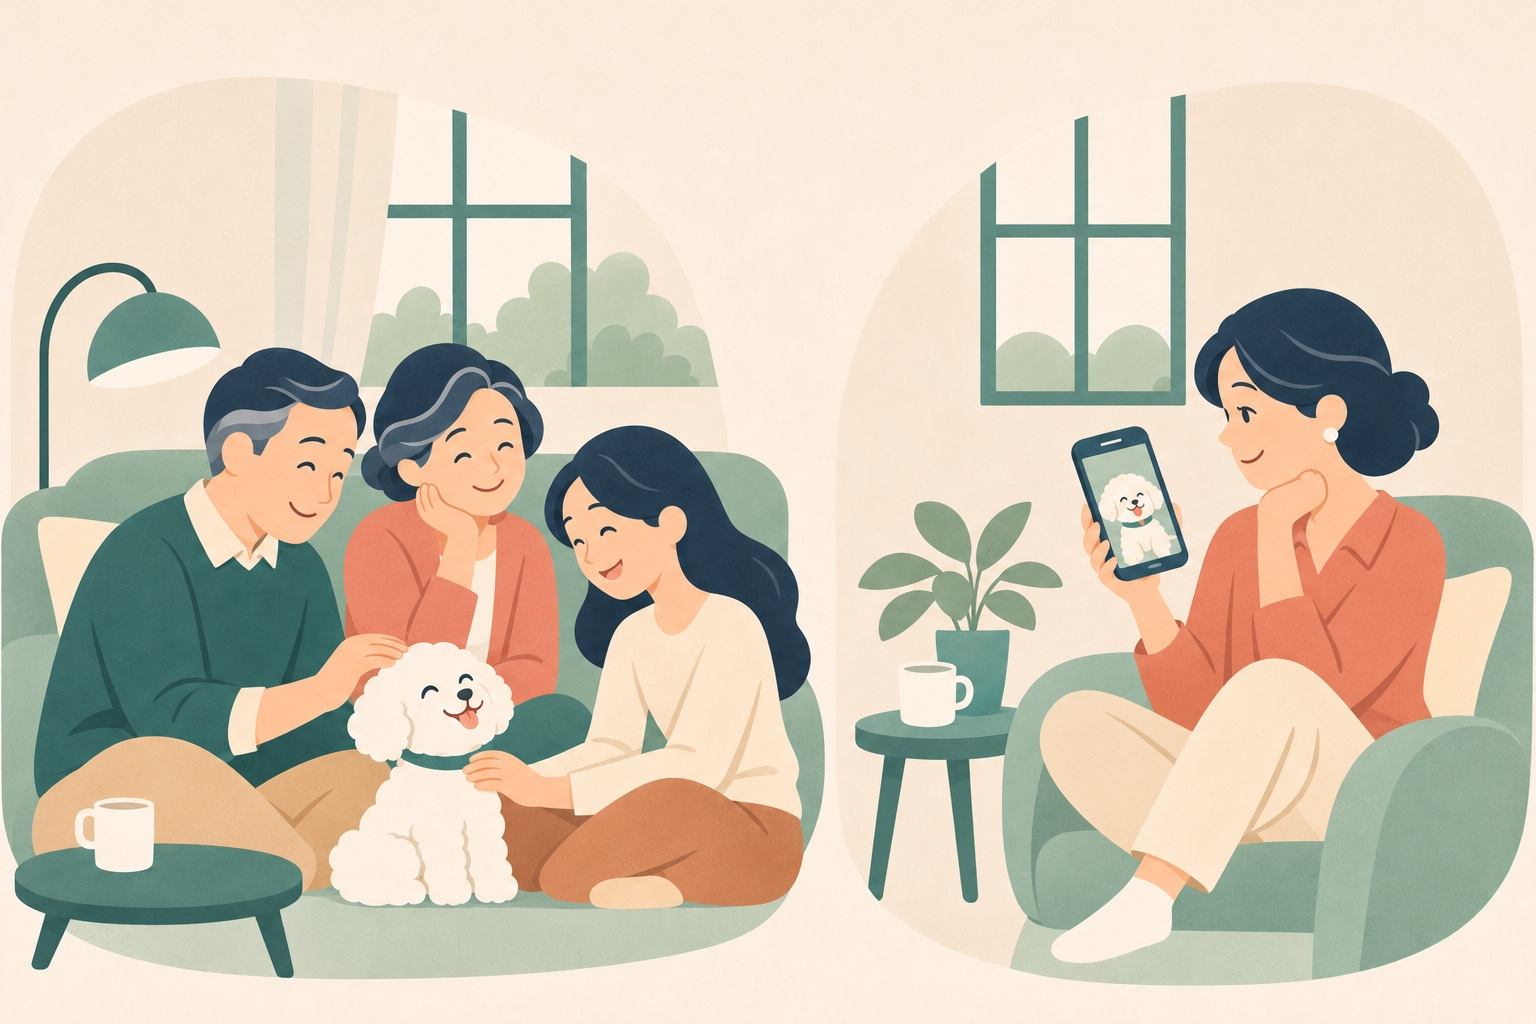
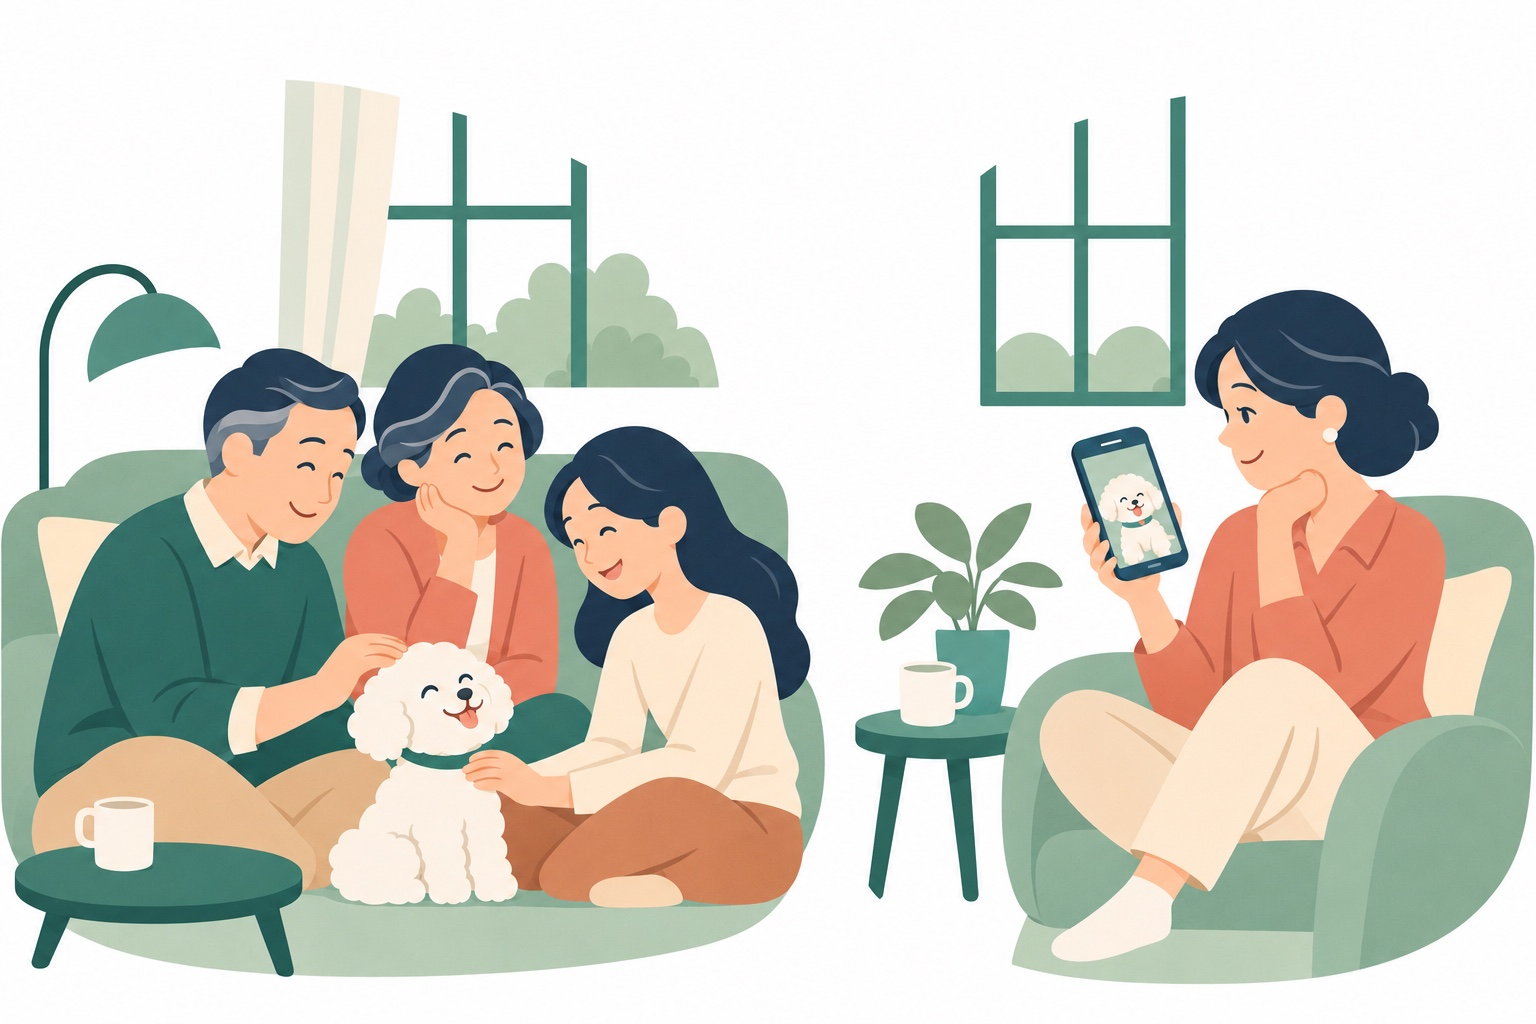
Show complete case thumbnails and white scenario backgrounds

diff --git a/mongram.html b/mongram.html
@@ -37,7 +37,7 @@
 <figure class="shot-slot shot-phone" data-screenshot-slot="hero-home"><img src="assets/mongram/home-demo.png" alt="Mongram seated-dog Home, November 5 simulator demo" width="1206" height="2622" fetchpriority="high"/><figcaption data-case-en="Home" data-case-ko="홈">ホーム</figcaption></figure>
 <figure class="shot-slot shot-phone" data-screenshot-slot="hero-walk"><img src="assets/mongram/walk-demo.png" alt="Mongram active-walk interface, November 5 simulator demo" width="1206" height="2622" fetchpriority="high"/><figcaption data-case-en="Active walk" data-case-ko="산책 중">散歩中</figcaption></figure></div></section>
 <section class="mg-summary mg-shell n-compact-facts"><div><span class="eyebrow">ROLE</span><p data-case-en="Product planning · Information architecture · UI&lt;br&gt;Implementation with GPT / Codex" data-case-ko="기획·정보 구조·UI 디자인&lt;br&gt;GPT / Codex와 구현">企画・情報設計・UIデザイン<br>GPT / Codexと実装</p></div><div><span class="eyebrow">CODE</span><p>Swift · SwiftUI · SwiftData</p></div></section>
-<section id="problem" class="n-section "><div class="n-wrap"><h2 data-case-en="Sharing the time spent apart" data-case-ko="함께하지 못한 시간도 가족과 공유">離れている時間も、家族で共有</h2><p class="n-intro" data-case-en="For couples with busy everyday lives, I designed a way to share the dog’s day even when they cannot walk together." data-case-ko="바쁜 일상을 보내는 부부가 함께 산책하지 못해도, 강아지의 하루를 서로 나눌 수 있도록 생각했습니다.">忙しい毎日を送る夫婦が、一緒に散歩できなくても愛犬の一日を共有できるように考えました。</p><div class="n-scenario-art"><figure><img src="assets/mongram/scenario-shared-care-20261108.jpg?v=color-office-20261109" width="1536" height="1024" alt="Illustrated scenario: a husband walks the dog while his wife works in an office" loading="lazy"/><figcaption data-case-en="A couple with busy everyday lives" data-case-ko="바쁜 일상을 보내는 부부">忙しい毎日を送る夫婦</figcaption></figure><figure><img src="assets/mongram/scenario-family-apart-20261108.jpg?v=color-family-20261109" width="1536" height="1024" alt="Illustrated scenario: family in different homes sharing the dog’s day" loading="lazy"/><figcaption data-case-en="Family living apart" data-case-ko="떨어져 사는 가족">離れて暮らす家族</figcaption></figure></div></div></section>
+<section id="problem" class="n-section "><div class="n-wrap"><h2 data-case-en="Sharing the time spent apart" data-case-ko="함께하지 못한 시간도 가족과 공유">離れている時間も、家族で共有</h2><p class="n-intro" data-case-en="For couples with busy everyday lives, I designed a way to share the dog’s day even when they cannot walk together." data-case-ko="바쁜 일상을 보내는 부부가 함께 산책하지 못해도, 강아지의 하루를 서로 나눌 수 있도록 생각했습니다.">忙しい毎日を送る夫婦が、一緒に散歩できなくても愛犬の一日を共有できるように考えました。</p><div class="n-scenario-art"><figure><img src="assets/mongram/scenario-shared-care-20261108.jpg?v=white-office-20261109" width="1536" height="1024" alt="Illustrated scenario: a husband walks the dog while his wife works in an office" loading="lazy"/><figcaption data-case-en="A couple with busy everyday lives" data-case-ko="바쁜 일상을 보내는 부부">忙しい毎日を送る夫婦</figcaption></figure><figure><img src="assets/mongram/scenario-family-apart-20261108.jpg?v=white-family-20261109" width="1536" height="1024" alt="Illustrated scenario: family in different homes sharing the dog’s day" loading="lazy"/><figcaption data-case-en="Family living apart" data-case-ko="떨어져 사는 가족">離れて暮らす家族</figcaption></figure></div></div></section>
 <section id="decisions" class="n-section n-dark"><div class="n-wrap"><h2 data-case-en="Replay the walk through route and photos" data-case-ko="경로와 사진으로 산책 다시보기">散歩を、ルートと写真で振り返る</h2><p class="n-intro" data-case-en="Replay the route and photos in sequence, so family can follow the walk beyond distance and time." data-case-ko="거리·시간뿐 아니라 경로와 사진을 시간순으로 재생해, 가족이 그날의 산책을 따라가 볼 수 있게 했습니다.">距離や時間だけでなく、ルートと写真を時系列で再生。家族がその日の散歩をたどれるようにしました。</p><ol class="n-sharing-flow" aria-label="Sharing flow"><li><svg viewBox="0 0 24 24" aria-hidden="true" focusable="false" fill="none" stroke="currentColor" stroke-width="1.7" stroke-linecap="round" stroke-linejoin="round"><path d="M4 17c0-4 4-4 4-8s4-4 4-4"/><circle cx="4" cy="19" r="2"/><path d="m12 3 5 2-5 2V3Z"/></svg><span data-case-en="Record the walk" data-case-ko="산책 기록">散歩を記録</span></li><li><svg viewBox="0 0 24 24" aria-hidden="true" focusable="false" fill="none" stroke="currentColor" stroke-width="1.7" stroke-linecap="round" stroke-linejoin="round"><rect x="3" y="5" width="18" height="14" rx="2"/><circle cx="8" cy="10" r="1.3"/><path d="m4 17 5-5 4 4 3-3 4 4"/></svg><span data-case-en="Capture moments" data-case-ko="사진 남기기">写真を残す</span></li><li><svg viewBox="0 0 24 24" aria-hidden="true" focusable="false" fill="none" stroke="currentColor" stroke-width="1.7" stroke-linecap="round" stroke-linejoin="round"><path d="m8 5 11 7-11 7V5Z"/></svg><span data-case-en="Family replays" data-case-ko="가족이 다시보기">家族が再生</span></li></ol><div class="n-screen-pair n-feature-pair"><figure class="n-figure "><div class="n-image-link"><img src="assets/mongram/history-demo.png" width="1206" height="2622" alt="Mongram family walk history demo" loading="lazy" decoding="async"/></div><figcaption data-case-en="Shared history" data-case-ko="가족 산책 기록">家族の記録</figcaption></figure><figure class="n-figure "><div class="n-image-link"><img src="assets/mongram/replay-demo.png" width="1206" height="2622" alt="Mongram route and photo replay demo" loading="lazy" decoding="async"/></div><figcaption data-case-en="Route and photo replay" data-case-ko="경로·사진 다시보기">ルートと写真の再生</figcaption></figure></div></div></section>
 <section id="home-design" class="n-section "><div class="n-wrap"><h2 data-case-en="Home focuses on walking" data-case-ko="홈은 산책에 집중">ホームは、散歩に集中</h2><p class="n-intro" data-case-en="I replaced an early Home packed with schedules and preventive-medication dates with a focus on starting and revisiting walks." data-case-ko="일정·사상충 예방약 등을 넣었던 초기 홈을, 산책 시작과 기록에 집중하는 화면으로 바꿨습니다.">予定・フィラリア予防薬などを並べた初期案から、散歩の開始と記録を中心にしたホームへ。</p><div class="n-home-comparison"><figure class="n-before"><figcaption class="n-compare-badge" data-case-en="BEFORE / Early structure diagram" data-case-ko="BEFORE / 초기 구성 설명도">BEFORE / 初期構成の模式図</figcaption><div class="n-wireframe"><h3 data-case-en="Home" data-case-ko="홈">ホーム</h3><div><p data-case-en="Schedule" data-case-ko="일정">予定</p></div><div><p data-case-en="Preventive medication" data-case-ko="예방약">予防薬</p></div><div><p data-case-en="Calendar" data-case-ko="캘린더">カレンダー</p></div><div><p data-case-en="Walk" data-case-ko="산책">散歩</p></div></div></figure><div class="n-arrow" aria-hidden="true">→</div><figure class="n-figure n-after"><div class="n-image-link"><img src="assets/mongram/home-demo.png" width="1206" height="2622" alt="Walk-focused seated-dog Home demonstration" loading="lazy" decoding="async"/></div><figcaption data-case-en="AFTER / Walk-focused Home" data-case-ko="AFTER / 산책 중심 홈">AFTER / 散歩中心のホーム</figcaption></figure></div></div></section>
 <section id="character" class="n-section n-paper"><div class="n-wrap"><h2 data-case-en="Characters make opening the app enjoyable" data-case-ko="앱을 여는 재미를 캐릭터로">開く楽しさを、キャラクターで</h2><p class="n-intro" data-case-en="Characters and movement for 18 breeds add a reason to open the app beyond recording. The effect on return visits is untested." data-case-ko="18개 견종의 캐릭터와 움직임으로, 기록할 일이 없어도 앱을 여는 재미를 주고자 했습니다. 재방문 효과는 아직 검증하지 않았습니다.">18犬種のキャラクターと動きで、記録以外にも開く楽しさを。再訪への効果は未検証です。</p><div class="mg-character-direction"><p class="mg-character-credit" data-case-en="I set the design direction and created the vectors with Codex." data-case-ko="디자인 방향은 직접 정하고, Codex로 벡터를 제작했습니다.">デザインの方向を定め、Codexでベクターを制作。</p><div><span class="" data-case-en="Minimal character" data-case-ko="미니멀한 캐릭터">ミニマルなキャラクター</span><span class="" data-case-en="Notion-logo reference" data-case-ko="Notion 로고 느낌">Notionロゴの表現を参考に</span><span class="" data-case-en="Starting with toy poodle" data-case-ko="토이푸들에서 시작">トイプードルから開始</span></div><p class="mg-character-origin" data-case-en="Earlier loading-art feedback: small, hand-drawn; avoid exaggerated head/body proportions." data-case-ko="초기 로딩 시안 피드백: 작고 손그림처럼 · 머리·몸 비례 과장 없이">初期ローディング案へのフィードバック：小さく、手描きらしく。頭・体の比率を誇張しない。</p></div><div class="mg-character-showcase"><figure class="mg-breed-screen"><img src="assets/mongram/breed-selection-user.png?v=20261109-tabbar" width="658" height="1432" alt="Mongram dog character selection screen supplied by the user" loading="lazy"/><figcaption data-case-en="Dog character selection" data-case-ko="강아지 캐릭터 선택">犬のキャラクター選択</figcaption></figure><div class="mg-breed-grid"><figure><img src="assets/mongram/breeds/borderCollie.svg" width="112" height="144" alt="Border collie" loading="lazy"/><figcaption data-case-en="Border collie" data-case-ko="보더콜리">ボーダー・コリー</figcaption></figure><figure><img src="assets/mongram/breeds/toyPoodle.svg" width="112" height="144" alt="Toy poodle" loading="lazy"/><figcaption data-case-en="Toy poodle" data-case-ko="토이푸들">トイプードル</figcaption></figure><figure><img src="assets/mongram/breeds/yorkshireTerrier.svg" width="112" height="144" alt="Yorkshire Terrier" loading="lazy"/><figcaption data-case-en="Yorkshire Terrier" data-case-ko="요크셔테리어">ヨークシャー・テリア</figcaption></figure><figure><img src="assets/mongram/breeds/chihuahua.svg" width="112" height="144" alt="Chihuahua" loading="lazy"/><figcaption data-case-en="Chihuahua" data-case-ko="치와와">チワワ</figcaption></figure><figure><img src="assets/mongram/breeds/pomeranian.svg" width="112" height="144" alt="Pomeranian" loading="lazy"/><figcaption data-case-en="Pomeranian" data-case-ko="포메라니안">ポメラニアン</figcaption></figure><figure><img src="assets/mongram/breeds/corgi.svg" width="112" height="144" alt="Welsh Corgi" loading="lazy"/><figcaption data-case-en="Welsh Corgi" data-case-ko="웰시코기">ウェルシュ・コーギー</figcaption></figure><figure><img src="assets/mongram/breeds/cockerSpaniel.svg" width="112" height="144" alt="Cocker Spaniel" loading="lazy"/><figcaption data-case-en="Cocker Spaniel" data-case-ko="코커스패니얼">コッカー・スパニエル</figcaption></figure><figure><img src="assets/mongram/breeds/retriever.svg" width="112" height="144" alt="Retriever" loading="lazy"/><figcaption data-case-en="Retriever" data-case-ko="리트리버">レトリバー</figcaption></figure><figure><img src="assets/mongram/breeds/dachshund.svg" width="112" height="144" alt="Dachshund" loading="lazy"/><figcaption data-case-en="Dachshund" data-case-ko="닥스훈트">ダックスフント</figcaption></figure><figure><img src="assets/mongram/breeds/maltese.svg" width="112" height="144" alt="Maltese" loading="lazy"/><figcaption data-case-en="Maltese" data-case-ko="말티즈">マルチーズ</figcaption></figure><figure><img src="assets/mongram/breeds/husky.svg" width="112" height="144" alt="Siberian Husky" loading="lazy"/><figcaption data-case-en="Siberian Husky" data-case-ko="시베리안 허스키">シベリアン・ハスキー</figcaption></figure><figure><img src="assets/mongram/breeds/papillon.svg" width="112" height="144" alt="Papillon" loading="lazy"/><figcaption data-case-en="Papillon" data-case-ko="파피용">パピヨン</figcaption></figure><figure><img src="assets/mongram/breeds/beagle.svg" width="112" height="144" alt="Beagle" loading="lazy"/><figcaption data-case-en="Beagle" data-case-ko="비글">ビーグル</figcaption></figure><figure><img src="assets/mongram/breeds/schnauzer.svg" width="112" height="144" alt="Schnauzer" loading="lazy"/><figcaption data-case-en="Schnauzer" data-case-ko="슈나우저">シュナウザー</figcaption></figure><figure><img src="assets/mongram/breeds/shiba.svg" width="112" height="144" alt="Shiba inu" loading="lazy"/><figcaption data-case-en="Shiba inu" data-case-ko="시바견">柴犬</figcaption></figure><figure><img src="assets/mongram/breeds/bichon.svg" width="112" height="144" alt="Bichon frisé" loading="lazy"/><figcaption data-case-en="Bichon frisé" data-case-ko="비숑">ビション・フリーゼ</figcaption></figure><figure><img src="assets/mongram/breeds/pug.svg" width="112" height="144" alt="Pug" loading="lazy"/><figcaption data-case-en="Pug" data-case-ko="퍼그">パグ</figcaption></figure><figure><img src="assets/mongram/breeds/dalmatian.svg" width="112" height="144" alt="Dalmatian" loading="lazy"/><figcaption data-case-en="Dalmatian" data-case-ko="달마시안">ダルメシアン</figcaption></figure></div></div></div></section>

diff --git a/lalatulle.html b/lalatulle.html
@@ -21,7 +21,7 @@
   <link rel="stylesheet" href="lalatulle-narrative-20261108.css?v=four-cases-20261109" />
   <link rel="stylesheet" href="portfolio-images.css?v=20261108" />
     <link rel="stylesheet" href="portfolio-footer.css?v=20261108-next" />
-<link rel="stylesheet" href="lalatulle-three-cases.css?v=9" />
+<link rel="stylesheet" href="lalatulle-three-cases.css?v=10" />
 </head>
   <body class="project-lalatulle lt-narrative"><header class="case-header project-page-header"><a class="back-link" href="index.html#projects">Portfolio</a><nav class="case-nav"><a href="#overview" data-case-en="Overview" data-case-ko="개요">概要</a><a href="#halloween" data-case-en="Halloween" data-case-ko="할로윈">Halloween</a><a href="#navigation" data-case-en="Navigation" data-case-ko="네비게이션">ナビゲーション</a><a href="#first-view" data-case-en="First view" data-case-ko="퍼스트뷰">ファーストビュー</a><a href="#experiment" data-case-en="PDP A/B test" data-case-ko="PDP A/B 테스트">PDP A/Bテスト</a></nav></header><main class="ln-main">
 <section class="ln-hero" id="overview"><div class="ln-cover"><div><p class="ln-brand">LaLaTulle</p>
@@ -47,7 +47,7 @@
 </div></div>
 <div class="ln-stage ln-tint" id="category-sequence"><div class="ln-stage-copy"><h3 data-case-en="From long product lists to category-based discovery" data-case-ko="긴 상품 목록에서 카테고리별 탐색으로">長い商品一覧から、カテゴリ別の探索へ</h3></div><div class="ln-grid-pair ln-three-stages"><figure><figcaption class="ln-comparison-label"><b class="ln-step-circle">01</b><span data-case-en="2023.09–2025.08" data-case-ko="2023.09–2025.08">2023.09–2025.08</span></figcaption><div class="ln-image-link"><img src="assets/lalatulle/figma-source/782b0.png" alt="Nine products in a three by three grid" loading="lazy" decoding="async" width="746" height="1384"/></div><div class="ln-category-continuation"><p data-case-en="More categories continue below" data-case-ko="다른 카테고리도 아래로 이어지는 구성">ほかのカテゴリも下へ続く</p><ol aria-label="Examples of categories continuing vertically"><li>Cat</li><li>Animal</li><li>China dress</li><li aria-hidden="true">…</li></ol></div></figure>
 <figure class="ln-grid-after"><figcaption class="ln-comparison-label"><b class="ln-step-circle">02</b><span data-case-en="2025.09–2025.10" data-case-ko="2025.09–2025.10">2025.09–2025.10</span></figcaption><div class="ln-image-link"><img src="assets/lalatulle/halloween-six-products-user-20261108.png" alt="User-provided six-product grid before category tabs, with a view-more link" loading="lazy" decoding="async" width="996" height="1364"/></div><div class="ln-category-continuation"><p data-case-en="More categories continue below" data-case-ko="다른 카테고리도 아래로 이어지는 구성">ほかのカテゴリも下へ続く</p><ol aria-label="Examples of categories continuing vertically"><li>Cat</li><li>Animal</li><li>China dress</li><li aria-hidden="true">…</li></ol></div></figure>
-<figure><figcaption class="ln-comparison-label"><b class="ln-step-circle">03</b><span data-case-en="2025.11–Present (2026)" data-case-ko="2025.11–현재 (2026)">2025.11–現在（2026）</span></figcaption><div class="ln-image-link"><img src="assets/lalatulle/figma-source/22c7c.png" alt="November category-switching layout" loading="lazy" width="998" height="1510"/></div><div class="ln-category-continuation"><p data-case-en="After October 31: show the selected category in place" data-case-ko="10월 31일 시즌 종료 후: 선택한 카테고리만 같은 위치에">10月31日のシーズン終了後：選んだカテゴリを同じ位置に表示</p></div></figure></div></div>
+<figure><figcaption class="ln-comparison-label"><b class="ln-step-circle">03</b><span data-case-en="2025.11–Present (2026)" data-case-ko="2025.11–현재 (2026)">2025.11–現在（2026）</span></figcaption><div class="ln-image-link"><img src="assets/lalatulle/figma-source/22c7c.png" alt="November category-switching layout" loading="lazy" width="998" height="1510"/></div><div class="ln-category-continuation"><p data-case-en="Improved with category-tab switching" data-case-ko="카테고리 탭 전환으로 개선">カテゴリタブで切り替える構成に改善</p></div></figure></div></div>
 <div class="ln-footer-stage"><h3 class="" data-case-en="Adding product search and guidance to the footer" data-case-ko="푸터에 상품 검색과 안내 추가">フッターに商品検索と案内を追加</h3><div class="ln-footer-evidence"><figure class="ln-footer-part"><div class="ln-image-link"><img src="assets/lalatulle/figma-source/e0e7f.png" alt="Recommended product area" loading="lazy" decoding="async" width="960" height="952"/></div><figcaption><h4 data-case-en="Recommended products" data-case-ko="추천 상품">おすすめ商品</h4><p data-case-en="I surfaced popular products again at the end of the page to invite further exploration." data-case-ko="페이지 끝에서 인기 상품을 다시 제안해, 떠나기 전에 탐색을 이어갈 입구를 만들었습니다.">ページ末尾で人気商品を再提示し、もう一度商品を探せる入口をつくりました。</p></figcaption></figure><figure class="ln-footer-part"><div class="ln-image-link"><img src="assets/lalatulle/figma-source/d018a.png" alt="Simple-search filters for category, size, price and color" loading="lazy" decoding="async" width="956" height="546"/></div><figcaption><h4 data-case-en="Simple search" data-case-ko="간단 검색">簡単検索</h4><p data-case-en="I added more ways to find products by category, size, color and other preferences." data-case-ko="카테고리·사이즈·색상 등 조건에 따라 상품을 찾을 수 있는 선택지를 늘렸습니다.">カテゴリ・サイズ・色など、条件から探せる選択肢を増やしました。</p></figcaption></figure><figure class="ln-footer-part"><div class="ln-image-link"><img src="assets/lalatulle/figma-source/f6bc3.png" alt="Halloween question and answer area" loading="lazy" decoding="async" width="958" height="808"/></div><figcaption><h4 data-case-en="Q&A" data-case-ko="Q&A">Q&A</h4><p data-case-en="The Q&A answers outfit and occasion questions, adding information that matches Halloween-related searches." data-case-ko="의상 선택·활용 상황에 관한 질문에 답하며, 할로윈 검색 의도에 맞는 정보를 보강했습니다.">衣装選びや着用シーンの疑問に答え、ハロウィン関連の検索意図に対応する情報を補いました。</p></figcaption></figure></div></div>
 <div class="ln-result" id="halloween-results"><p class="ln-result-period" data-case-en="September 26–October 25, 2025 · year over year" data-case-ko="2025.09.26–10.25 · 전년 동기 대비">2025年9月26日〜10月25日・前年同期比</p>
 <h3 data-case-en="More product views. Higher revenue." data-case-ko="상품 조회와 매출이 증가했습니다.">商品閲覧と売上が増加。</h3>

diff --git a/lalatulle-three-cases.css b/lalatulle-three-cases.css
@@ -107,3 +107,6 @@ body.lt-narrative .lt-layout-caption{font-size:12px;color:#7d7079;text-align:cen
 .lt-narrative .lt-case-index{grid-template-columns:repeat(4,minmax(0,1fr))}.lt-narrative .lt-case-index .lt-case-entry{min-width:0}.lt-narrative .ln-section{padding-top:140px;margin-top:60px}.lt-narrative .ln-section>.ln-heading{display:flex;flex-direction:column;align-items:center;text-align:center;gap:24px;margin-bottom:56px}.lt-narrative .ln-section>.ln-heading>span{max-width:none;padding:0}.lt-narrative .ln-section>.ln-heading h2{white-space:pre-line;text-wrap:balance;max-width:940px;margin:0;font-size:clamp(34px,4.5vw,58px)}.lt-narrative #first-view .lt-brand-strategy{margin-top:0}.lt-narrative #first-view{background:#f4f0eb;box-shadow:0 0 0 100vmax #f4f0eb;clip-path:inset(0 -100vmax)}
 @media(max-width:900px){.lt-narrative .lt-case-index{grid-template-columns:repeat(2,minmax(0,1fr))}}@media(max-width:600px){.lt-narrative .ln-section{padding-top:80px;margin-top:30px}.lt-narrative .ln-section>.ln-heading{gap:20px;margin-bottom:34px}.lt-narrative .ln-section>.ln-heading h2{font-size:32px}.lt-narrative .lt-case-index{gap:16px}.lt-narrative .lt-case-index strong{font-size:18px}}
 body.lt-narrative .ln-chapters.lt-case-index{grid-template-columns:repeat(4,minmax(0,1fr));gap:24px}body.lt-narrative .lt-case-entry strong{font-size:23px;padding-right:0}@media(max-width:900px){body.lt-narrative .ln-chapters.lt-case-index{grid-template-columns:repeat(2,minmax(0,1fr))}}@media(max-width:520px){body.lt-narrative .ln-chapters.lt-case-index{grid-template-columns:1fr}body.lt-narrative .lt-case-entry strong{font-size:24px}}
+body.lt-narrative .lt-case-entry[href="#navigation"] .lt-case-thumbnail{display:flex;align-items:center;justify-content:center;padding:14px;background:#fff}body.lt-narrative .lt-case-entry[href="#navigation"] .lt-case-thumbnail img{width:100%;height:auto;max-height:100%;object-fit:contain;object-position:center}
+body.lt-narrative .lt-case-entry[href="#first-view"] .lt-case-thumbnail{display:flex;align-items:center;justify-content:center;background:#eee8eb}body.lt-narrative .lt-case-entry[href="#first-view"] .lt-case-thumbnail img{width:100%;height:100%;object-fit:contain;object-position:center}
+body.lt-narrative #halloween .lt-case-brief>div{border:0}
